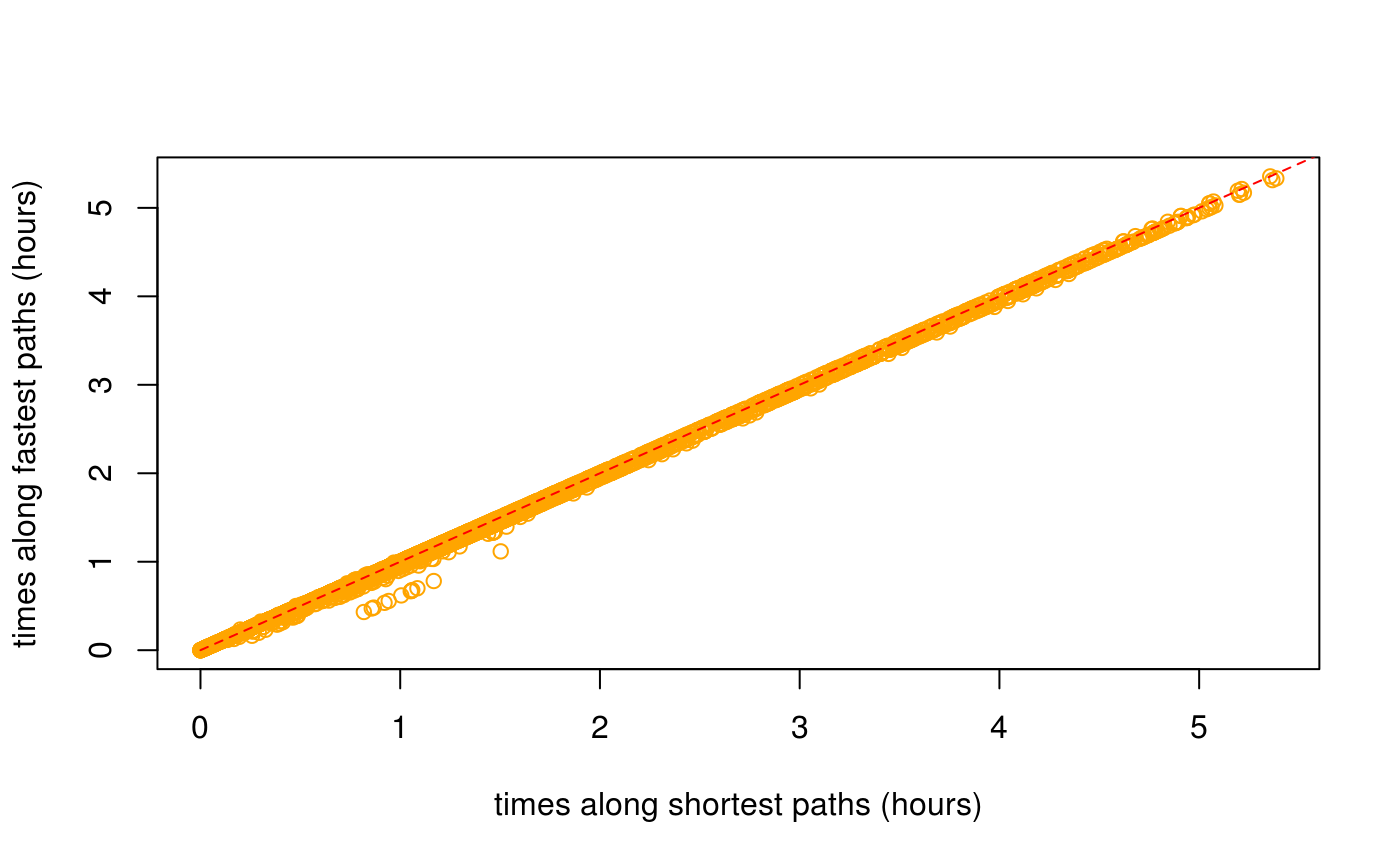
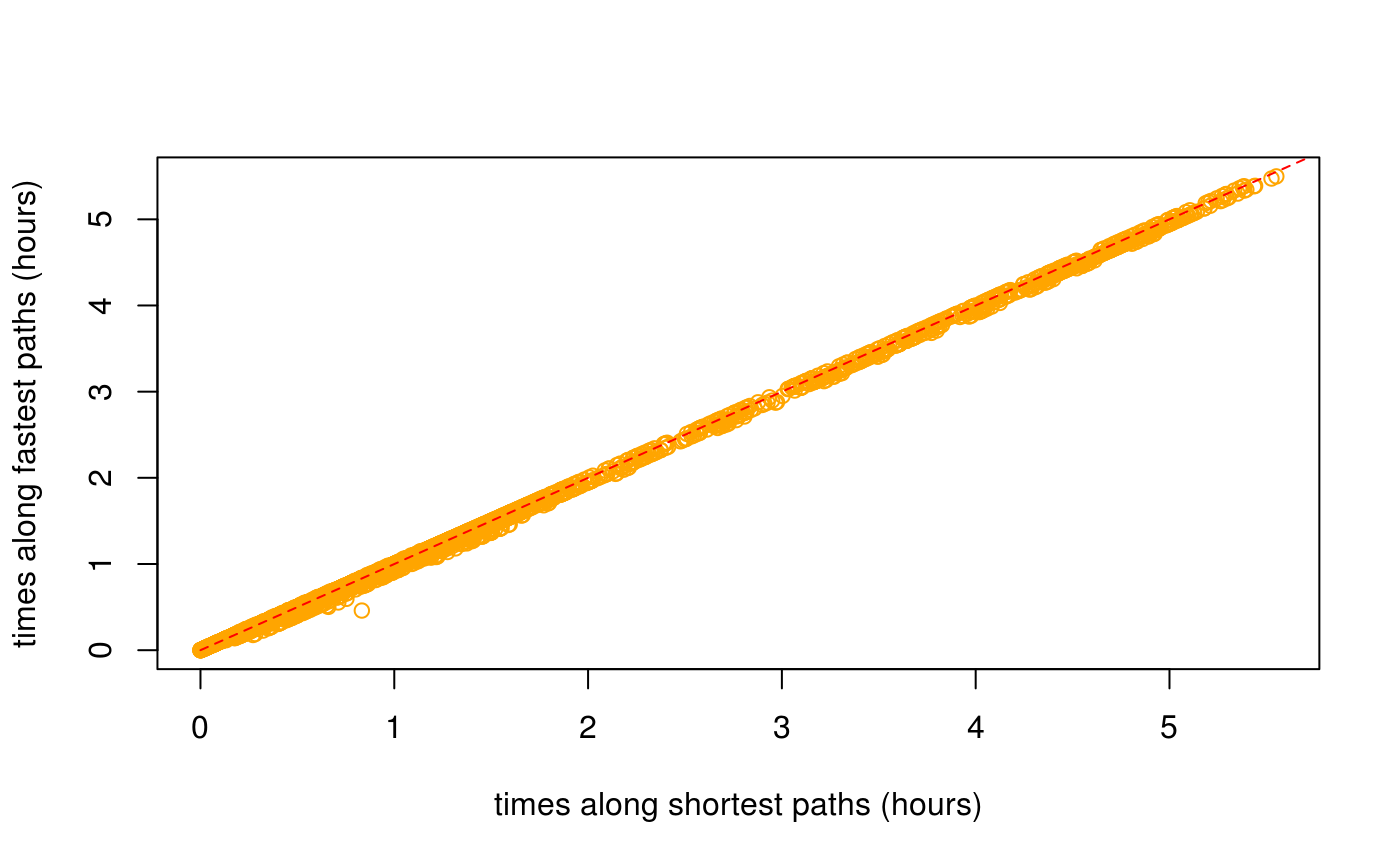
Built site for dodgr: 0.1.4.8@c490079

diff --git a/articles/dodgr.html b/articles/dodgr.html
@@ -343,7 +343,7 @@ Figure 2: A <strong>dual</strong>-weighted, directed graph in which the weights 
 <p>The <code>dodgr</code> packages includes a function to select a random connected portion of graph including a specified number of vertices. This function is used in the <code><a href="../reference/compare_heaps.html">compare_heaps()</a></code> function described below, but is also useful for general statistical analyses of large graphs which may otherwise take too long to compute.</p>
 <div class="sourceCode" id="cb59"><pre class="sourceCode r"><code class="sourceCode r"><a class="sourceLine" id="cb59-1" data-line-number="1">graph_sub &lt;-<span class="st"> </span><span class="kw"><a href="../reference/dodgr_sample.html">dodgr_sample</a></span> (graph, <span class="dt">nverts =</span> <span class="dv">100</span>)</a>
 <a class="sourceLine" id="cb59-2" data-line-number="2"><span class="kw"><a href="https://www.rdocumentation.org/packages/base/topics/nrow">nrow</a></span> (graph_sub)</a></code></pre></div>
-<pre><code>## [1] 197</code></pre>
+<pre><code>## [1] 199</code></pre>
 <p>The random sample has around twice as many edges as vertices, in accordance with the statistics calculated above.</p>
 <div class="sourceCode" id="cb61"><pre class="sourceCode r"><code class="sourceCode r"><a class="sourceLine" id="cb61-1" data-line-number="1"><span class="kw"><a href="https://www.rdocumentation.org/packages/base/topics/nrow">nrow</a></span> (<span class="kw"><a href="../reference/dodgr_vertices.html">dodgr_vertices</a></span> (graph_sub))</a></code></pre></div>
 <pre><code>## [1] 100</code></pre>
@@ -421,30 +421,30 @@ Figure 2: A <strong>dual</strong>-weighted, directed graph in which the weights 
 <div class="sourceCode" id="cb77"><pre class="sourceCode r"><code class="sourceCode r"><a class="sourceLine" id="cb77-1" data-line-number="1"><span class="kw"><a href="../reference/compare_heaps.html">compare_heaps</a></span> (graph, <span class="dt">nverts =</span> <span class="dv">100</span>, <span class="dt">replications =</span> <span class="dv">1</span>)</a></code></pre></div>
 <pre><code>##                                                                                   test
 ## 12                  d &lt;- igraph::distances(igr, v = from_id, to = to_id, mode = "out")
-## 7       d &lt;- dodgr_dists(graph_contracted, from = from_id, to = to_id, heap = "FHeap")
-## 10     d &lt;- dodgr_dists(graph_contracted, from = from_id, to = to_id, heap = "Heap23")
-## 4             d &lt;- dodgr_dists(graph, from = from_id, to = to_id, heap = "TriHeapExt")
+## 8     d &lt;- dodgr_dists(graph_contracted, from = from_id, to = to_id, heap = "TriHeap")
 ## 5                 d &lt;- dodgr_dists(graph, from = from_id, to = to_id, heap = "Heap23")
 ## 6       d &lt;- dodgr_dists(graph_contracted, from = from_id, to = to_id, heap = "BHeap")
-## 8     d &lt;- dodgr_dists(graph_contracted, from = from_id, to = to_id, heap = "TriHeap")
+## 7       d &lt;- dodgr_dists(graph_contracted, from = from_id, to = to_id, heap = "FHeap")
 ## 9  d &lt;- dodgr_dists(graph_contracted, from = from_id, to = to_id, heap = "TriHeapExt")
+## 10     d &lt;- dodgr_dists(graph_contracted, from = from_id, to = to_id, heap = "Heap23")
 ## 11        d &lt;- dodgr_dists(graph_contracted, from = from_id, to = to_id, heap = "set")
-## 1                  d &lt;- dodgr_dists(graph, from = from_id, to = to_id, heap = "BHeap")
+## 4             d &lt;- dodgr_dists(graph, from = from_id, to = to_id, heap = "TriHeapExt")
 ## 2                  d &lt;- dodgr_dists(graph, from = from_id, to = to_id, heap = "FHeap")
 ## 3                d &lt;- dodgr_dists(graph, from = from_id, to = to_id, heap = "TriHeap")
+## 1                  d &lt;- dodgr_dists(graph, from = from_id, to = to_id, heap = "BHeap")
 ##    replications elapsed relative user.self sys.self user.child sys.child
-## 12            1   0.001        1     0.004    0.000          0         0
-## 7             1   0.002        2     0.004    0.000          0         0
-## 10            1   0.002        2     0.000    0.000          0         0
-## 4             1   0.003        3     0.004    0.000          0         0
+## 12            1   0.001        1     0.000    0.000          0         0
+## 8             1   0.002        2     0.004    0.000          0         0
 ## 5             1   0.003        3     0.000    0.000          0         0
-## 6             1   0.003        3     0.004    0.000          0         0
-## 8             1   0.003        3     0.004    0.000          0         0
-## 9             1   0.003        3     0.004    0.000          0         0
+## 6             1   0.003        3     0.000    0.000          0         0
+## 7             1   0.003        3     0.004    0.000          0         0
+## 9             1   0.003        3     0.000    0.000          0         0
+## 10            1   0.003        3     0.000    0.000          0         0
 ## 11            1   0.003        3     0.004    0.000          0         0
-## 1             1   0.004        4     0.004    0.000          0         0
-## 2             1   0.004        4     0.000    0.004          0         0
-## 3             1   0.005        5     0.004    0.000          0         0</code></pre>
+## 4             1   0.004        4     0.004    0.000          0         0
+## 2             1   0.005        5     0.008    0.000          0         0
+## 3             1   0.005        5     0.004    0.000          0         0
+## 1             1   0.006        6     0.004    0.004          0         0</code></pre>
 <p>The key column of that <code>data.frame</code> is <code>relative</code>, which quantifies the relative performance of each test in relation to the best which is given a score of 1. <code>dodgr</code> using the default <code>heap = "BHeap"</code>, which is a binary heap priority queue, performs faster than <code>igraph</code> <span class="citation">(Csardi and Nepusz 2006)</span> for these graphs. Different kind of graphs will perform differently with different priority queue structures, and this function enables users to empirically discern the optimal heap for their kind of graph.</p>
 <p>Note, however, that this is not an entirely fair comparison, because <code>dodgr</code> calculates dual-weighted distances, whereas <code>igraph</code>—and indeed all other <strong>R</strong> packages—only directly calculate distances based on a single set of weights. Implementing dual-weighted routing in these cases requires explicitly re-tracing all paths and summing the second set of weights along each path. A time comparison in that case would be very strongly in favour of <code>dodgr</code>. Moreover, <code>dodgr</code> can convert graphs to contracted form through removing redundant vertices, as detailed in the following section. Doing so greatly improves performance with respect to <code>igraph</code>.</p>
 <p>For those wishing to do explicit comparisons themselves, the following code generates the <code>igraph</code> equivalent of <code><a href="../reference/dodgr_dists.html">dodgr_dists()</a></code>, although of course for single-weighted graphs only:</p>
@@ -497,8 +497,8 @@ Figure 3: <strong>(A)</strong> Vertex#2 is redundant for routing calculations fr
 <pre><code>## [1] 672</code></pre>
 <div class="sourceCode" id="cb89"><pre class="sourceCode r"><code class="sourceCode r"><a class="sourceLine" id="cb89-1" data-line-number="1">verts &lt;-<span class="st"> </span><span class="kw"><a href="https://www.rdocumentation.org/packages/base/topics/sample">sample</a></span> (<span class="kw"><a href="../reference/dodgr_vertices.html">dodgr_vertices</a></span> (graph)<span class="op">$</span>id, <span class="dt">size =</span> <span class="dv">100</span>)</a>
 <a class="sourceLine" id="cb89-2" data-line-number="2"><span class="kw"><a href="https://www.rdocumentation.org/packages/utils/topics/head">head</a></span> (verts) <span class="co"># a character vector</span></a></code></pre></div>
-<pre><code>## [1] "4337853839" "2195424962" "6161853498" "977473090"  "1204772804"
-## [6] "2608081980"</code></pre>
+<pre><code>## [1] "3697937580" "1376768654" "3697944226" "1376768626" "1691495745"
+## [6] "2195425052"</code></pre>
 <div class="sourceCode" id="cb91"><pre class="sourceCode r"><code class="sourceCode r"><a class="sourceLine" id="cb91-1" data-line-number="1">grc &lt;-<span class="st"> </span><span class="kw"><a href="../reference/dodgr_contract_graph.html">dodgr_contract_graph</a></span> (graph, verts)</a>
 <a class="sourceLine" id="cb91-2" data-line-number="2"><span class="kw"><a href="https://www.rdocumentation.org/packages/base/topics/nrow">nrow</a></span> (grc)</a></code></pre></div>
 <pre><code>## [1] 854</code></pre>
@@ -542,32 +542,31 @@ Figure 3: <strong>(A)</strong> Vertex#2 is redundant for routing calculations fr
 <pre><code>## [1] 10</code></pre>
 <p>The result (<code>dp</code>) is a list of 10 items, each of which contains 5 vectors. An example is,</p>
 <div class="sourceCode" id="cb98"><pre class="sourceCode r"><code class="sourceCode r"><a class="sourceLine" id="cb98-1" data-line-number="1">dp [[<span class="dv">1</span>]] [[<span class="dv">1</span>]]</a></code></pre></div>
-<pre><code>##  [1] "338904865"  "2398957766" "2398957767" "1148814881" "2398957769"
-##  [6] "2398957773" "338904837"  "3338186941" "3338186940" "338904808" 
-## [11] "3338186939" "5358983985" "1148815010" "338904786"  "2398957781"
-## [16] "1148814651" "2398957784" "338904763"  "2398957785" "2398957786"
-## [21] "2398957788" "1148814936" "338904757"  "2398957791" "3338186191"
-## [26] "3338186190" "338904736"  "1376768646" "1148815069" "338904641" 
-## [31] "2398957807" "2398957811" "339577486"  "339577487"  "339577488" 
-## [36] "339577489"  "4035136526" "4035136527" "4035136517" "4035136516"
-## [41] "4035136515" "4035136514" "4035136513" "4035136512" "4035136511"
-## [46] "4035136510" "4035136509" "4035136508" "4035136507" "4035136506"
-## [51] "4035136505" "4035136504" "4035136503" "2627477006" "338512693" 
-## [56] "2398957844" "2398957842" "2627476980" "2627476985" "339574165" 
-## [61] "4474520806" "1604033316" "339574164"  "4474520807" "339574161" 
-## [66] "4474520808" "339574160"  "1715805190" "339574159"  "339574158" 
-## [71] "1715805191" "339574157"  "339574156"  "339574155"</code></pre>
+<pre><code>##  [1] "339574824"  "339574823"  "1668645472" "1668645470" "3818714154"
+##  [6] "1668645444" "1668645443" "1668645438" "1668645436" "339574837" 
+## [11] "339577276"  "339577277"  "2717241325" "339577279"  "339577280" 
+## [16] "6162061978" "339577283"  "1427080647" "1427080646" "339577285" 
+## [21] "339577286"  "339577287"  "339577289"  "339577292"  "338905032" 
+## [26] "1376768330" "1376768904" "2398957715" "2398957716" "1376768543"
+## [31] "1376769137" "1376768847" "1376768484" "1376769045" "4506481428"
+## [36] "1376768697" "1376769196" "6414886574" "1376768817" "1376768447"
+## [41] "6414886575" "1376769017" "6414886576" "1376768754" "6414886577"
+## [46] "1376768386" "1376768961" "6414886578" "1376768601" "5351820954"
+## [51] "1376769087" "5974503432" "1376768725" "5351820955" "1376768356"
+## [56] "5974503433" "5351820956" "5974503434" "1376768931" "5974503435"
+## [61] "1376768660" "1376768299" "1376768873" "5974503436" "1376768511"
+## [66] "2398957609"</code></pre>
 <p>For spatial graphs, the coordinates of these paths can be obtained by extracting the vertices with <code><a href="../reference/dodgr_vertices.html">dodgr_vertices()</a></code> and matching the vertex IDs:</p>
 <div class="sourceCode" id="cb100"><pre class="sourceCode r"><code class="sourceCode r"><a class="sourceLine" id="cb100-1" data-line-number="1">verts &lt;-<span class="st"> </span><span class="kw"><a href="../reference/dodgr_vertices.html">dodgr_vertices</a></span> (graph)</a>
 <a class="sourceLine" id="cb100-2" data-line-number="2">path1 &lt;-<span class="st"> </span>verts [<span class="kw"><a href="https://www.rdocumentation.org/packages/base/topics/match">match</a></span> (dp [[<span class="dv">1</span>]] [[<span class="dv">1</span>]], verts<span class="op">$</span>id), ]</a>
 <a class="sourceLine" id="cb100-3" data-line-number="3"><span class="kw"><a href="https://www.rdocumentation.org/packages/utils/topics/head">head</a></span> (path1)</a></code></pre></div>
 <pre><code>##              id        x        y component    n
-## 4524  338904865 76.46067 15.32323         1 2249
-## 4522 2398957766 76.46042 15.32316         1 2248
-## 4520 2398957767 76.46035 15.32314         1 2247
-## 4518 1148814881 76.46030 15.32314         1 2246
-## 4516 2398957769 76.46024 15.32320         1 2245
-## 4514 2398957773 76.46021 15.32327         1 2244</code></pre>
+## 544   339574824 76.47152 15.31920         1  277
+## 542   339574823 76.47146 15.31894         1  276
+## 541  1668645472 76.47139 15.31885         1  275
+## 3066 1668645470 76.47131 15.31876         1 1542
+## 568  3818714154 76.47102 15.31856         1  289
+## 3062 1668645444 76.47016 15.31815         1 1541</code></pre>
 <p>Paths calculated on contracted graphs will of course have fewer vertices than those calculated on full graphs.</p>
 </div>
 <div id="aggregated-flows" class="section level1">
@@ -611,7 +610,7 @@ Figure 3: <strong>(A)</strong> Vertex#2 is redundant for routing calculations fr
 <p>Most flows are zero because they have only been calculated between very few points in the graph.</p>
 <div class="sourceCode" id="cb105"><pre class="sourceCode r"><code class="sourceCode r"><a class="sourceLine" id="cb105-1" data-line-number="1"><span class="kw"><a href="https://www.rdocumentation.org/packages/base/topics/summary">summary</a></span> (graph_f<span class="op">$</span>flow)</a></code></pre></div>
 <pre><code>##    Min. 1st Qu.  Median    Mean 3rd Qu.    Max. 
-##   0.000   0.000   0.000   5.753   0.000  73.049</code></pre>
+##   0.000   0.000   0.000   4.674   0.000 101.231</code></pre>
 </div>
 <div id="flow-dispersal" class="section level2">
 <h2 class="hasAnchor">
@@ -621,7 +620,7 @@ Figure 3: <strong>(A)</strong> Vertex#2 is redundant for routing calculations fr
 <a class="sourceLine" id="cb107-2" data-line-number="2">graph_f &lt;-<span class="st"> </span><span class="kw"><a href="../reference/dodgr_flows_disperse.html">dodgr_flows_disperse</a></span> (graph, <span class="dt">from =</span> from, <span class="dt">dens =</span> dens)</a>
 <a class="sourceLine" id="cb107-3" data-line-number="3"><span class="kw"><a href="https://www.rdocumentation.org/packages/base/topics/summary">summary</a></span> (graph_f<span class="op">$</span>flow)</a></code></pre></div>
 <pre><code>##      Min.   1st Qu.    Median      Mean   3rd Qu.      Max. 
-## 0.000e+00 0.000e+00 0.000e+00 1.894e-06 0.000e+00 4.648e-03</code></pre>
+## 0.000e+00 0.000e+00 0.000e+00 3.302e-05 0.000e+00 9.865e-02</code></pre>
 </div>
 <div id="merging-directed-flows" class="section level2">
 <h2 class="hasAnchor">
@@ -631,7 +630,7 @@ Figure 3: <strong>(A)</strong> Vertex#2 is redundant for routing calculations fr
 <p>Resultant graphs produced by <code><a href="../reference/merge_directed_flows.html">merge_directed_flows()</a></code> only include those edges having non-zero flows, and so:</p>
 <div class="sourceCode" id="cb110"><pre class="sourceCode r"><code class="sourceCode r"><a class="sourceLine" id="cb110-1" data-line-number="1"><span class="kw"><a href="https://www.rdocumentation.org/packages/base/topics/nrow">nrow</a></span> (graph_f); <span class="kw"><a href="https://www.rdocumentation.org/packages/base/topics/nrow">nrow</a></span> (graph_undir) <span class="co"># the latter is much smaller</span></a></code></pre></div>
 <pre><code>## [1] 5973</code></pre>
-<pre><code>## [1] 1663</code></pre>
+<pre><code>## [1] 1351</code></pre>
 <p>The resultant graph can readily be merged with the original graph to regain the original data on vertex coordinates through</p>
 <div class="sourceCode" id="cb113"><pre class="sourceCode r"><code class="sourceCode r"><a class="sourceLine" id="cb113-1" data-line-number="1">graph &lt;-<span class="st"> </span>graph [graph_undir<span class="op">$</span>edge_id, ]</a>
 <a class="sourceLine" id="cb113-2" data-line-number="2">graph<span class="op">$</span>flow &lt;-<span class="st"> </span>graph_undir<span class="op">$</span>flow</a></code></pre></div>

diff --git a/articles/times.html b/articles/times.html
@@ -233,11 +233,11 @@ Figure 1: Graph modification to account for turn angles, which introduces the ad
 <p><img src="times_files/figure-html/shortest-vs-fastest-1.png" width="700"></p>
 <p>The average distance between the two (in metres) is:</p>
 <div class="sourceCode" id="cb11"><pre class="sourceCode r"><code class="sourceCode r"><a class="sourceLine" id="cb11-1" data-line-number="1"><span class="kw"><a href="https://www.rdocumentation.org/packages/base/topics/mean">mean</a></span> (<span class="kw"><a href="https://www.rdocumentation.org/packages/base/topics/MathFun">abs</a></span> (d_time <span class="op">-</span><span class="st"> </span>d_dist), <span class="dt">na.rm =</span> <span class="ot">TRUE</span>)</a></code></pre></div>
-<pre><code>## [1] 44.26614</code></pre>
+<pre><code>## [1] 48.09286</code></pre>
 <p>The plot reveals that shortest distances are indeed somewhat shorter than distances along fastest paths, but also that some fastest paths are actually shorter than shortest paths:</p>
 <div class="sourceCode" id="cb13"><pre class="sourceCode r"><code class="sourceCode r"><a class="sourceLine" id="cb13-1" data-line-number="1">index &lt;-<span class="st"> </span><span class="kw"><a href="https://www.rdocumentation.org/packages/base/topics/which">which</a></span> (<span class="op">!</span><span class="kw"><a href="https://www.rdocumentation.org/packages/base/topics/NA">is.na</a></span> (d_time) <span class="op">&amp;</span><span class="st"> </span><span class="op">!</span><span class="kw"><a href="https://www.rdocumentation.org/packages/base/topics/NA">is.na</a></span> (d_dist))</a>
 <a class="sourceLine" id="cb13-2" data-line-number="2"><span class="kw"><a href="https://www.rdocumentation.org/packages/base/topics/length">length</a></span> (<span class="kw"><a href="https://www.rdocumentation.org/packages/base/topics/which">which</a></span> (d_time [index] <span class="op">&lt;</span><span class="st"> </span>d_dist [index])) <span class="op">/</span><span class="st"> </span><span class="kw"><a href="https://www.rdocumentation.org/packages/base/topics/length">length</a></span> (index)</a></code></pre></div>
-<pre><code>## [1] 0.005517504</code></pre>
+<pre><code>## [1] 0.02584155</code></pre>
 <p>While <code>dodgr</code> and indeed all routing engines attempt to maximally reconcile differences between fastest and shortest routes, there nevertheless remain important discrepancies. Foremost among these, and the primary reason why some fastest routes may in fact be shorter than shortest routes, is that fastest routes allocate preferences for different kinds of way based both on the <code>value</code> column in the <code>weighting_profiles$weighting_profiles</code> table illustrated above, and on the actual maximum speed of a given edge, which itself may be a combination of maximum speeds as specified in OSM itself, maximum speeds from the <code>weighting_profiles$weighting_profiles</code> table, or values specific to a given surface. The result is that some unique combination of maximum speeds along a network may lead to <em>fastest</em> routes being preferentially directed along a path that is actually shorter than the direct shortest path which is calculated independent of maximum speed values.</p>
 <p>Such discrepancies are important in understanding differences in routes <em>times</em> calculated along shortest versus fastest paths. These times can be calculated (in seconds) with the <a href="https://atfutures.github.io/dodgr/reference/dodgr_times.html"><code><a href="../reference/dodgr_times.html">dodgr_times()</a></code></a> function:</p>
 <div class="sourceCode" id="cb15"><pre class="sourceCode r"><code class="sourceCode r"><a class="sourceLine" id="cb15-1" data-line-number="1">t_dist &lt;-<span class="st"> </span><span class="kw"><a href="../reference/dodgr_times.html">dodgr_times</a></span> (graph, <span class="dt">from =</span> from, <span class="dt">to =</span> to, <span class="dt">shortest =</span> <span class="ot">TRUE</span>) <span class="co"># default</span></a>
@@ -248,11 +248,11 @@ Figure 1: Graph modification to account for turn angles, which introduces the ad
 <a class="sourceLine" id="cb15-6" data-line-number="6"><span class="kw"><a href="https://www.rdocumentation.org/packages/graphics/topics/lines">lines</a></span> (<span class="dv">0</span><span class="op">:</span><span class="dv">100</span>, <span class="dv">0</span><span class="op">:</span><span class="dv">100</span>, <span class="dt">col =</span> <span class="st">"red"</span>, <span class="dt">lty =</span> <span class="dv">2</span>)</a></code></pre></div>
 <p><img src="times_files/figure-html/shortest-vs-fastest-times-1.png" width="700"></p>
 <div class="sourceCode" id="cb16"><pre class="sourceCode r"><code class="sourceCode r"><a class="sourceLine" id="cb16-1" data-line-number="1"><span class="kw"><a href="https://www.rdocumentation.org/packages/base/topics/mean">mean</a></span> (<span class="kw"><a href="https://www.rdocumentation.org/packages/base/topics/MathFun">abs</a></span> (t_time <span class="op">-</span><span class="st"> </span>t_dist), <span class="dt">na.rm =</span> <span class="ot">TRUE</span>)</a></code></pre></div>
-<pre><code>## [1] 42.52184</code></pre>
+<pre><code>## [1] 51.67592</code></pre>
 <p>As above, times along fastest paths are generally less than times along shortest paths, although there are again a few exceptions:</p>
 <div class="sourceCode" id="cb18"><pre class="sourceCode r"><code class="sourceCode r"><a class="sourceLine" id="cb18-1" data-line-number="1">index &lt;-<span class="st"> </span><span class="kw"><a href="https://www.rdocumentation.org/packages/base/topics/which">which</a></span> (<span class="op">!</span><span class="kw"><a href="https://www.rdocumentation.org/packages/base/topics/NA">is.na</a></span> (t_time) <span class="op">&amp;</span><span class="st"> </span><span class="op">!</span><span class="kw"><a href="https://www.rdocumentation.org/packages/base/topics/NA">is.na</a></span> (t_dist))</a>
 <a class="sourceLine" id="cb18-2" data-line-number="2"><span class="kw"><a href="https://www.rdocumentation.org/packages/base/topics/length">length</a></span> (<span class="kw"><a href="https://www.rdocumentation.org/packages/base/topics/which">which</a></span> (t_dist [index] <span class="op">&lt;</span><span class="st"> </span>t_time [index])) <span class="op">/</span><span class="st"> </span><span class="kw"><a href="https://www.rdocumentation.org/packages/base/topics/length">length</a></span> (index)</a></code></pre></div>
-<pre><code>## [1] 0.006849315</code></pre>
+<pre><code>## [1] 0.01411085</code></pre>
 <p>These results demonstrate how the combination of the <a href="https://atfutures.github.io/dodgr/reference/dodgr_distances.html"><code><a href="../reference/dodgr_distances.html">dodgr_distances()</a></code></a> and <a href="https://atfutures.github.io/dodgr/reference/dodgr_times.html"><code><a href="../reference/dodgr_times.html">dodgr_times()</a></code></a> functions enable calculation of both distances and times along both shortest and fastest paths.</p>
 <div id="time-based-paths-and-flow-aggregation" class="section level2">
 <h2 class="hasAnchor">

diff --git a/index.html b/index.html
@@ -376,7 +376,7 @@
 <div id="usage-distances-and-times" class="section level2">
 <h2 class="hasAnchor">
 <a href="#usage-distances-and-times" class="anchor"></a>Usage: Distances and Times</h2>
-<p>The many-to-many nature of <code>dodgr</code> means that the function to calculate distances, <a href="https://atfutures.github.io/dodgr/reference/dodgr_distances.html"><code><a href="reference/dodgr_distances.html">dodgr_distances()</a></code></a> or, for street networks, times, <a href="https://atfutures.github.io/dodgr/reference/dodgr_times.html"><code><a href="reference/dodgr_times.html">dodgr_times()</a></code></a> or, for street networks, times, accepts two vectors or matrices of routing points as inputs (describing origins and destinations), and returns a corresponding matrix of pairwise distances. If an input graph has columns for both distances and weighted distances, and/or times and weighted times, the weighted versions are used to determine the effectively shortest or fastest routes through a network, while actual distances or times are summed along the routes to calculate final values. It is of course also possible to calculate distances along fastest routes, times along shortest routes, or any combination thereof, as detailed in the package vignette on <a href="https://atfutures.github.io/dodgr/articles/times.html">street networks and time-based routing</a>.</p>
+<p>The many-to-many nature of <code>dodgr</code> means that the function to calculate distances, <a href="https://atfutures.github.io/dodgr/reference/dodgr_distances.html"><code><a href="reference/dodgr_distances.html">dodgr_distances()</a></code></a> or, for street networks, times, <a href="https://atfutures.github.io/dodgr/reference/dodgr_times.html"><code><a href="reference/dodgr_times.html">dodgr_times()</a></code></a>, accepts two vectors or matrices of routing points as inputs (describing origins and destinations), and returns a corresponding matrix of pairwise distances. If an input graph has columns for both distances and weighted distances, and/or times and weighted times, the weighted versions are used to determine the effectively shortest or fastest routes through a network, while actual distances or times are summed along the routes to calculate final values. It is of course also possible to calculate distances along fastest routes, times along shortest routes, or any combination thereof, as detailed in the package vignette on <a href="https://atfutures.github.io/dodgr/articles/times.html">street networks and time-based routing</a>.</p>
 <p>Routing points can, for example, be randomly selected from the vertices of a graph. The vertices can in turn be extracted with the <code><a href="reference/dodgr_vertices.html">dodgr_vertices()</a></code> function:</p>
 <div class="sourceCode" id="cb6"><pre class="sourceCode r"><code class="sourceCode r"><a class="sourceLine" id="cb6-1" data-line-number="1">v &lt;-<span class="st"> </span><span class="kw"><a href="reference/dodgr_vertices.html">dodgr_vertices</a></span> (graph)</a>
 <a class="sourceLine" id="cb6-2" data-line-number="2"><span class="kw"><a href="https://www.rdocumentation.org/packages/utils/topics/head">head</a></span> (v)</a></code></pre></div>
@@ -511,7 +511,7 @@
 <td align="right">1</td>
 <td align="right">95.358362</td>
 <td align="right">119.197952</td>
-<td align="right">7.44292</td>
+<td align="right">16.93194</td>
 </tr>
 <tr class="even">
 <td align="right">1</td>
@@ -529,7 +529,7 @@
 <td align="right">1</td>
 <td align="right">95.358362</td>
 <td align="right">119.197952</td>
-<td align="right">0.00000</td>
+<td align="right">23.59893</td>
 </tr>
 <tr class="odd">
 <td align="right">1</td>
@@ -547,7 +547,7 @@
 <td align="right">1</td>
 <td align="right">6.399843</td>
 <td align="right">7.999803</td>
-<td align="right">7.44292</td>
+<td align="right">16.93194</td>
 </tr>
 <tr class="even">
 <td align="right">1</td>
@@ -565,7 +565,7 @@
 <td align="right">1</td>
 <td align="right">6.399843</td>
 <td align="right">7.999803</td>
-<td align="right">0.00000</td>
+<td align="right">23.59893</td>
 </tr>
 <tr class="odd">
 <td align="right">1</td>
@@ -583,7 +583,7 @@
 <td align="right">1</td>
 <td align="right">6.715106</td>
 <td align="right">8.393882</td>
-<td align="right">7.44292</td>
+<td align="right">16.93194</td>
 </tr>
 <tr class="even">
 <td align="right">1</td>
@@ -601,7 +601,7 @@
 <td align="right">1</td>
 <td align="right">6.715106</td>
 <td align="right">8.393882</td>
-<td align="right">0.00000</td>
+<td align="right">23.59893</td>
 </tr>
 </tbody>
 </table>

diff --git a/reference/compare_heaps.html b/reference/compare_heaps.html
@@ -155,11 +155,11 @@ fair comparisons, run only once or re-start the current R session.</p>
     <pre class="examples"><div class='input'><span class='no'>graph</span> <span class='kw'>&lt;-</span> <span class='fu'><a href='weight_streetnet.html'>weight_streetnet</a></span> (<span class='no'>hampi</span>)
 <span class='fu'>compare_heaps</span> (<span class='no'>graph</span>, <span class='kw'>nverts</span> <span class='kw'>=</span> <span class='fl'>1000</span>, <span class='kw'>replications</span> <span class='kw'>=</span> <span class='fl'>1</span>)</div><div class='output co'>#&gt;                                                                                   test
 #&gt; 6       d &lt;- dodgr_dists(graph_contracted, from = from_id, to = to_id, heap = "BHeap")
-#&gt; 10     d &lt;- dodgr_dists(graph_contracted, from = from_id, to = to_id, heap = "Heap23")
 #&gt; 11        d &lt;- dodgr_dists(graph_contracted, from = from_id, to = to_id, heap = "set")
 #&gt; 7       d &lt;- dodgr_dists(graph_contracted, from = from_id, to = to_id, heap = "FHeap")
 #&gt; 8     d &lt;- dodgr_dists(graph_contracted, from = from_id, to = to_id, heap = "TriHeap")
 #&gt; 9  d &lt;- dodgr_dists(graph_contracted, from = from_id, to = to_id, heap = "TriHeapExt")
+#&gt; 10     d &lt;- dodgr_dists(graph_contracted, from = from_id, to = to_id, heap = "Heap23")
 #&gt; 12                  d &lt;- igraph::distances(igr, v = from_id, to = to_id, mode = "out")
 #&gt; 1                  d &lt;- dodgr_dists(graph, from = from_id, to = to_id, heap = "BHeap")
 #&gt; 2                  d &lt;- dodgr_dists(graph, from = from_id, to = to_id, heap = "FHeap")
@@ -167,18 +167,18 @@ fair comparisons, run only once or re-start the current R session.</p>
 #&gt; 5                 d &lt;- dodgr_dists(graph, from = from_id, to = to_id, heap = "Heap23")
 #&gt; 4             d &lt;- dodgr_dists(graph, from = from_id, to = to_id, heap = "TriHeapExt")
 #&gt;    replications elapsed relative user.self sys.self user.child sys.child
-#&gt; 6             1   0.004     1.00     0.004        0          0         0
-#&gt; 10            1   0.004     1.00     0.004        0          0         0
-#&gt; 11            1   0.004     1.00     0.004        0          0         0
-#&gt; 7             1   0.005     1.25     0.008        0          0         0
-#&gt; 8             1   0.005     1.25     0.008        0          0         0
-#&gt; 9             1   0.005     1.25     0.004        0          0         0
-#&gt; 12            1   0.010     2.50     0.008        0          0         0
-#&gt; 1             1   0.019     4.75     0.028        0          0         0
-#&gt; 2             1   0.024     6.00     0.036        0          0         0
-#&gt; 3             1   0.024     6.00     0.040        0          0         0
-#&gt; 5             1   0.025     6.25     0.040        0          0         0
-#&gt; 4             1   0.026     6.50     0.024        0          0         0</div></pre>
+#&gt; 6             1   0.010      1.0     0.016        0          0         0
+#&gt; 11            1   0.010      1.0     0.016        0          0         0
+#&gt; 7             1   0.012      1.2     0.020        0          0         0
+#&gt; 8             1   0.013      1.3     0.020        0          0         0
+#&gt; 9             1   0.013      1.3     0.012        0          0         0
+#&gt; 10            1   0.013      1.3     0.020        0          0         0
+#&gt; 12            1   0.024      2.4     0.024        0          0         0
+#&gt; 1             1   0.037      3.7     0.064        0          0         0
+#&gt; 2             1   0.050      5.0     0.088        0          0         0
+#&gt; 3             1   0.051      5.1     0.092        0          0         0
+#&gt; 5             1   0.051      5.1     0.092        0          0         0
+#&gt; 4             1   0.061      6.1     0.060        0          0         0</div></pre>
   </div>
   <div class="col-md-3 hidden-xs hidden-sm" id="sidebar">
     <h2>Contents</h2>

diff --git a/reference/dodgr_sample.html b/reference/dodgr_sample.html
@@ -141,7 +141,7 @@ the requested <code>nverts</code>.</p>
     <h2 class="hasAnchor" id="examples"><a class="anchor" href="#examples"></a>Examples</h2>
     <pre class="examples"><div class='input'><span class='no'>graph</span> <span class='kw'>&lt;-</span> <span class='fu'><a href='weight_streetnet.html'>weight_streetnet</a></span> (<span class='no'>hampi</span>)
 <span class='fu'><a href='https://www.rdocumentation.org/packages/base/topics/nrow'>nrow</a></span> (<span class='no'>graph</span>) <span class='co'># 5,742</span></div><div class='output co'>#&gt; [1] 5973</div><div class='input'><span class='no'>graph</span> <span class='kw'>&lt;-</span> <span class='fu'>dodgr_sample</span> (<span class='no'>graph</span>, <span class='kw'>nverts</span> <span class='kw'>=</span> <span class='fl'>200</span>)
-<span class='fu'><a href='https://www.rdocumentation.org/packages/base/topics/nrow'>nrow</a></span> (<span class='no'>graph</span>) <span class='co'># generally around 400 edges</span></div><div class='output co'>#&gt; [1] 403</div><div class='input'><span class='fu'><a href='https://www.rdocumentation.org/packages/base/topics/nrow'>nrow</a></span> (<span class='fu'><a href='dodgr_vertices.html'>dodgr_vertices</a></span> (<span class='no'>graph</span>)) <span class='co'># 200</span></div><div class='output co'>#&gt; [1] 200</div></pre>
+<span class='fu'><a href='https://www.rdocumentation.org/packages/base/topics/nrow'>nrow</a></span> (<span class='no'>graph</span>) <span class='co'># generally around 400 edges</span></div><div class='output co'>#&gt; [1] 411</div><div class='input'><span class='fu'><a href='https://www.rdocumentation.org/packages/base/topics/nrow'>nrow</a></span> (<span class='fu'><a href='dodgr_vertices.html'>dodgr_vertices</a></span> (<span class='no'>graph</span>)) <span class='co'># 200</span></div><div class='output co'>#&gt; [1] 200</div></pre>
   </div>
   <div class="col-md-3 hidden-xs hidden-sm" id="sidebar">
     <h2>Contents</h2>
